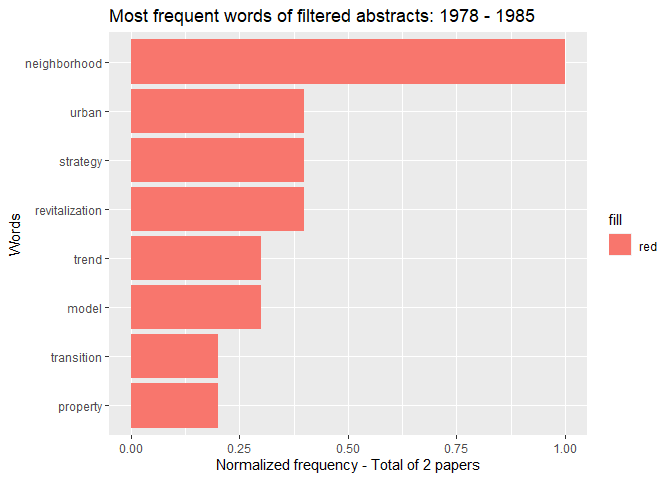
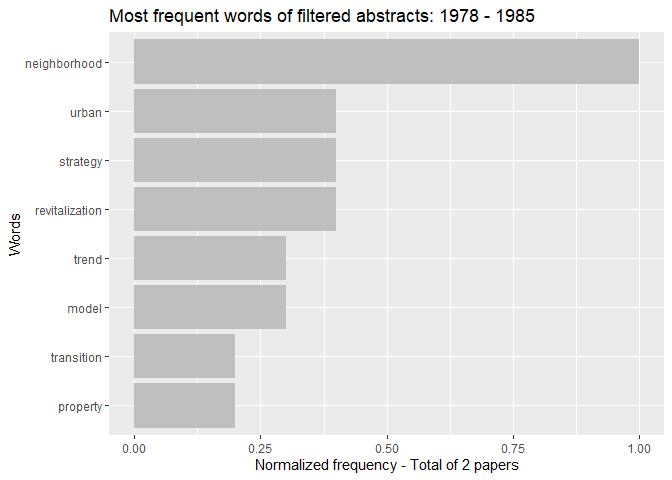
Historical_Analysis

diff --git a/Historical_Context_Abs_TM.md b/Historical_Context_Abs_TM.md
@@ -164,9 +164,9 @@ word_counts <- tokenizing_abstract %>%
 
 ``` r
 ggplot(
-  word_counts, aes (x = word2, y = n/max(n), fill = "red")
+  word_counts, aes (x = word2, y = n/max(n))
 ) +
-  geom_col() + 
+  geom_col(fill = "gray75") + 
   coord_flip() + 
   labs(
     title = "Most frequent words of filtered abstracts: 1978 - 1985",
